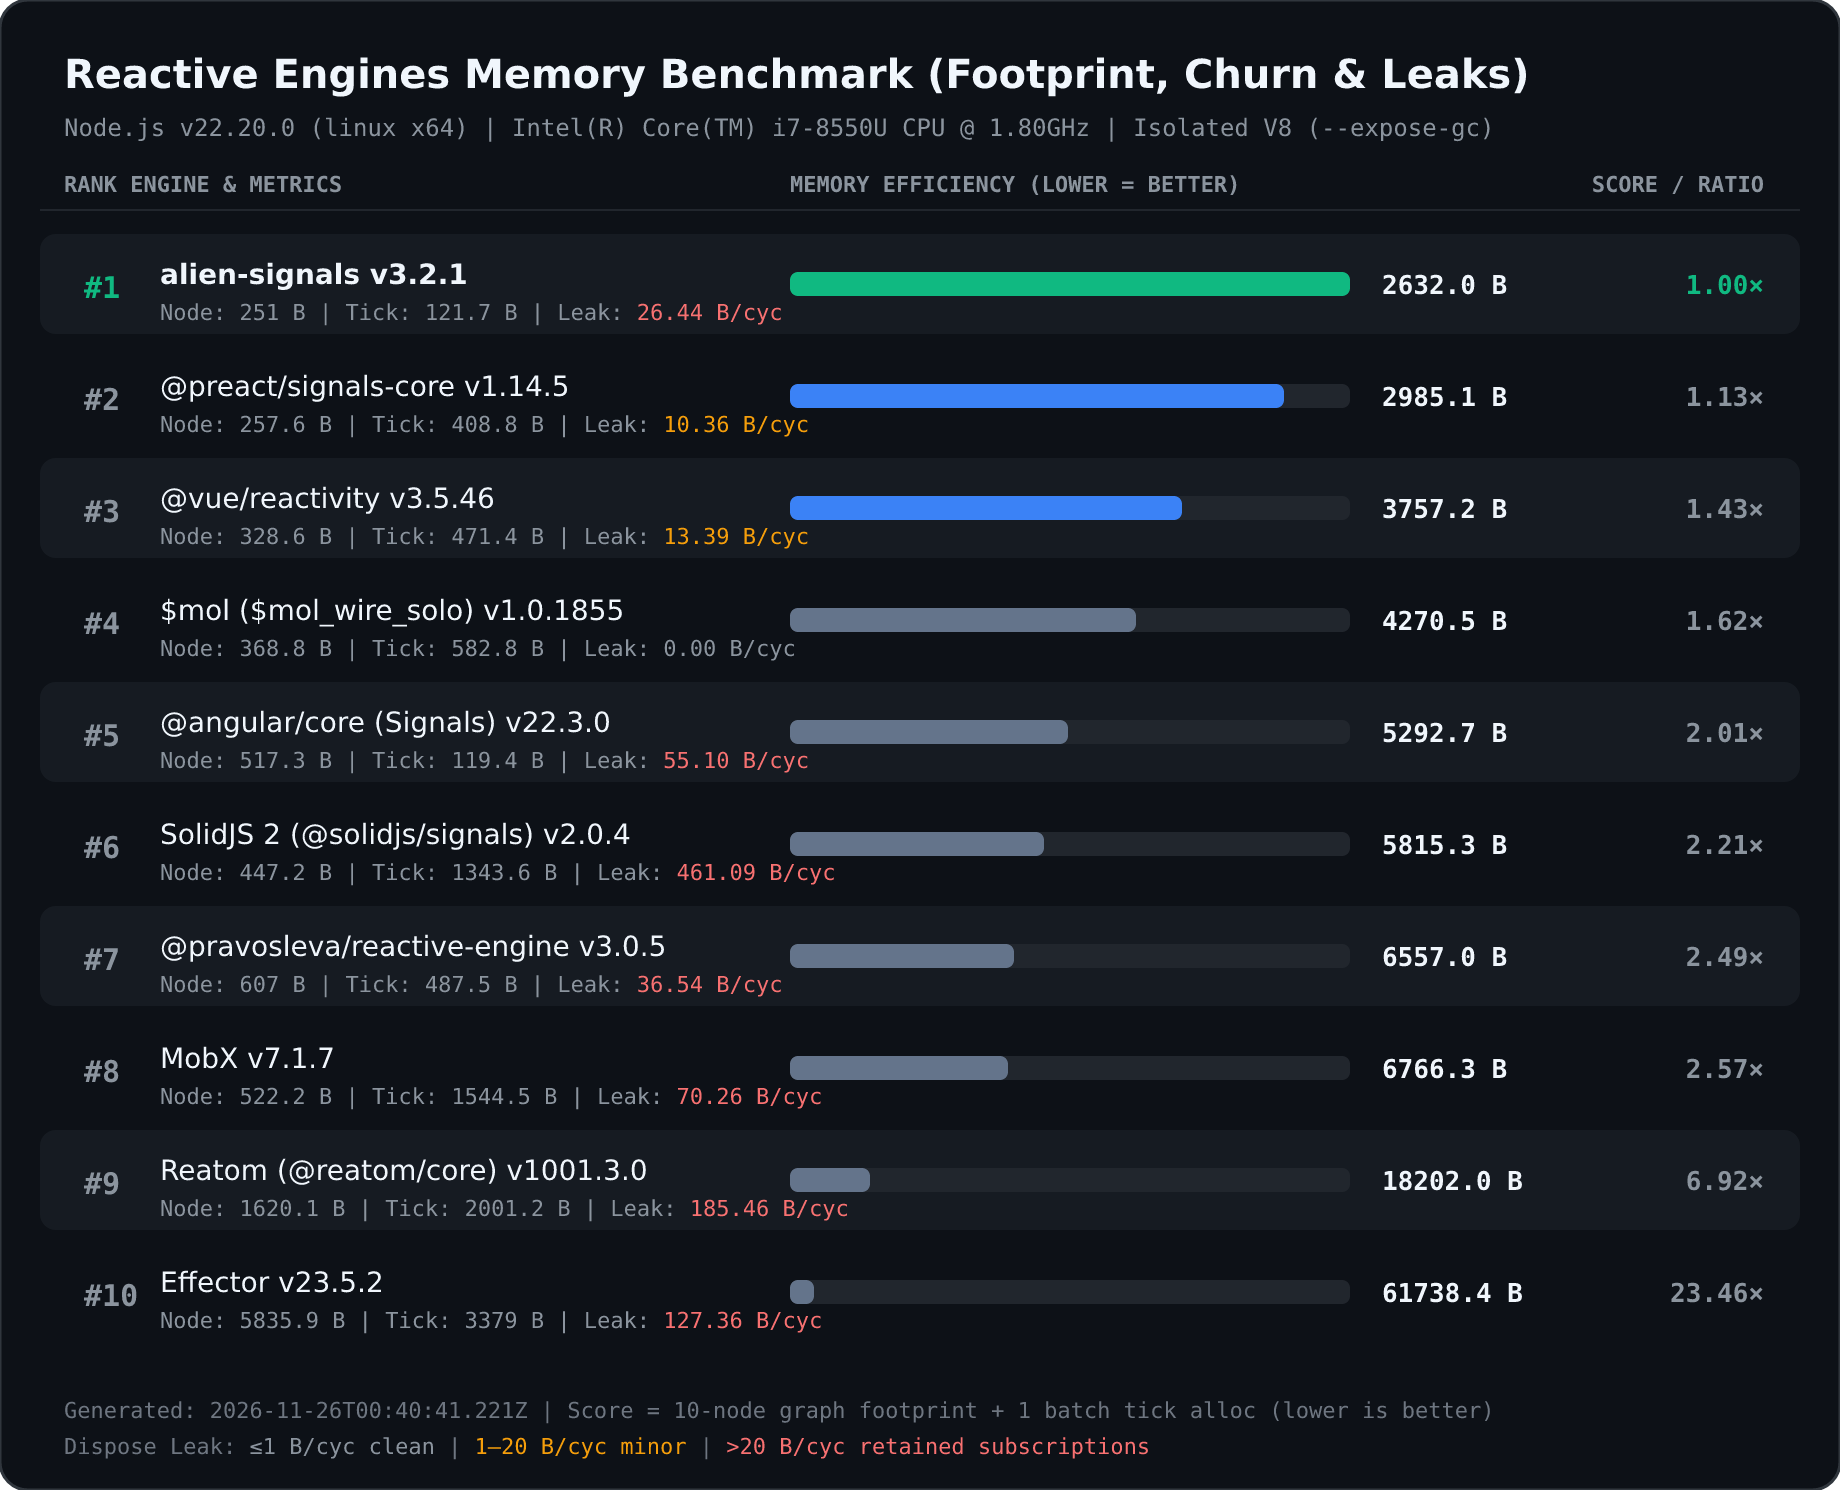
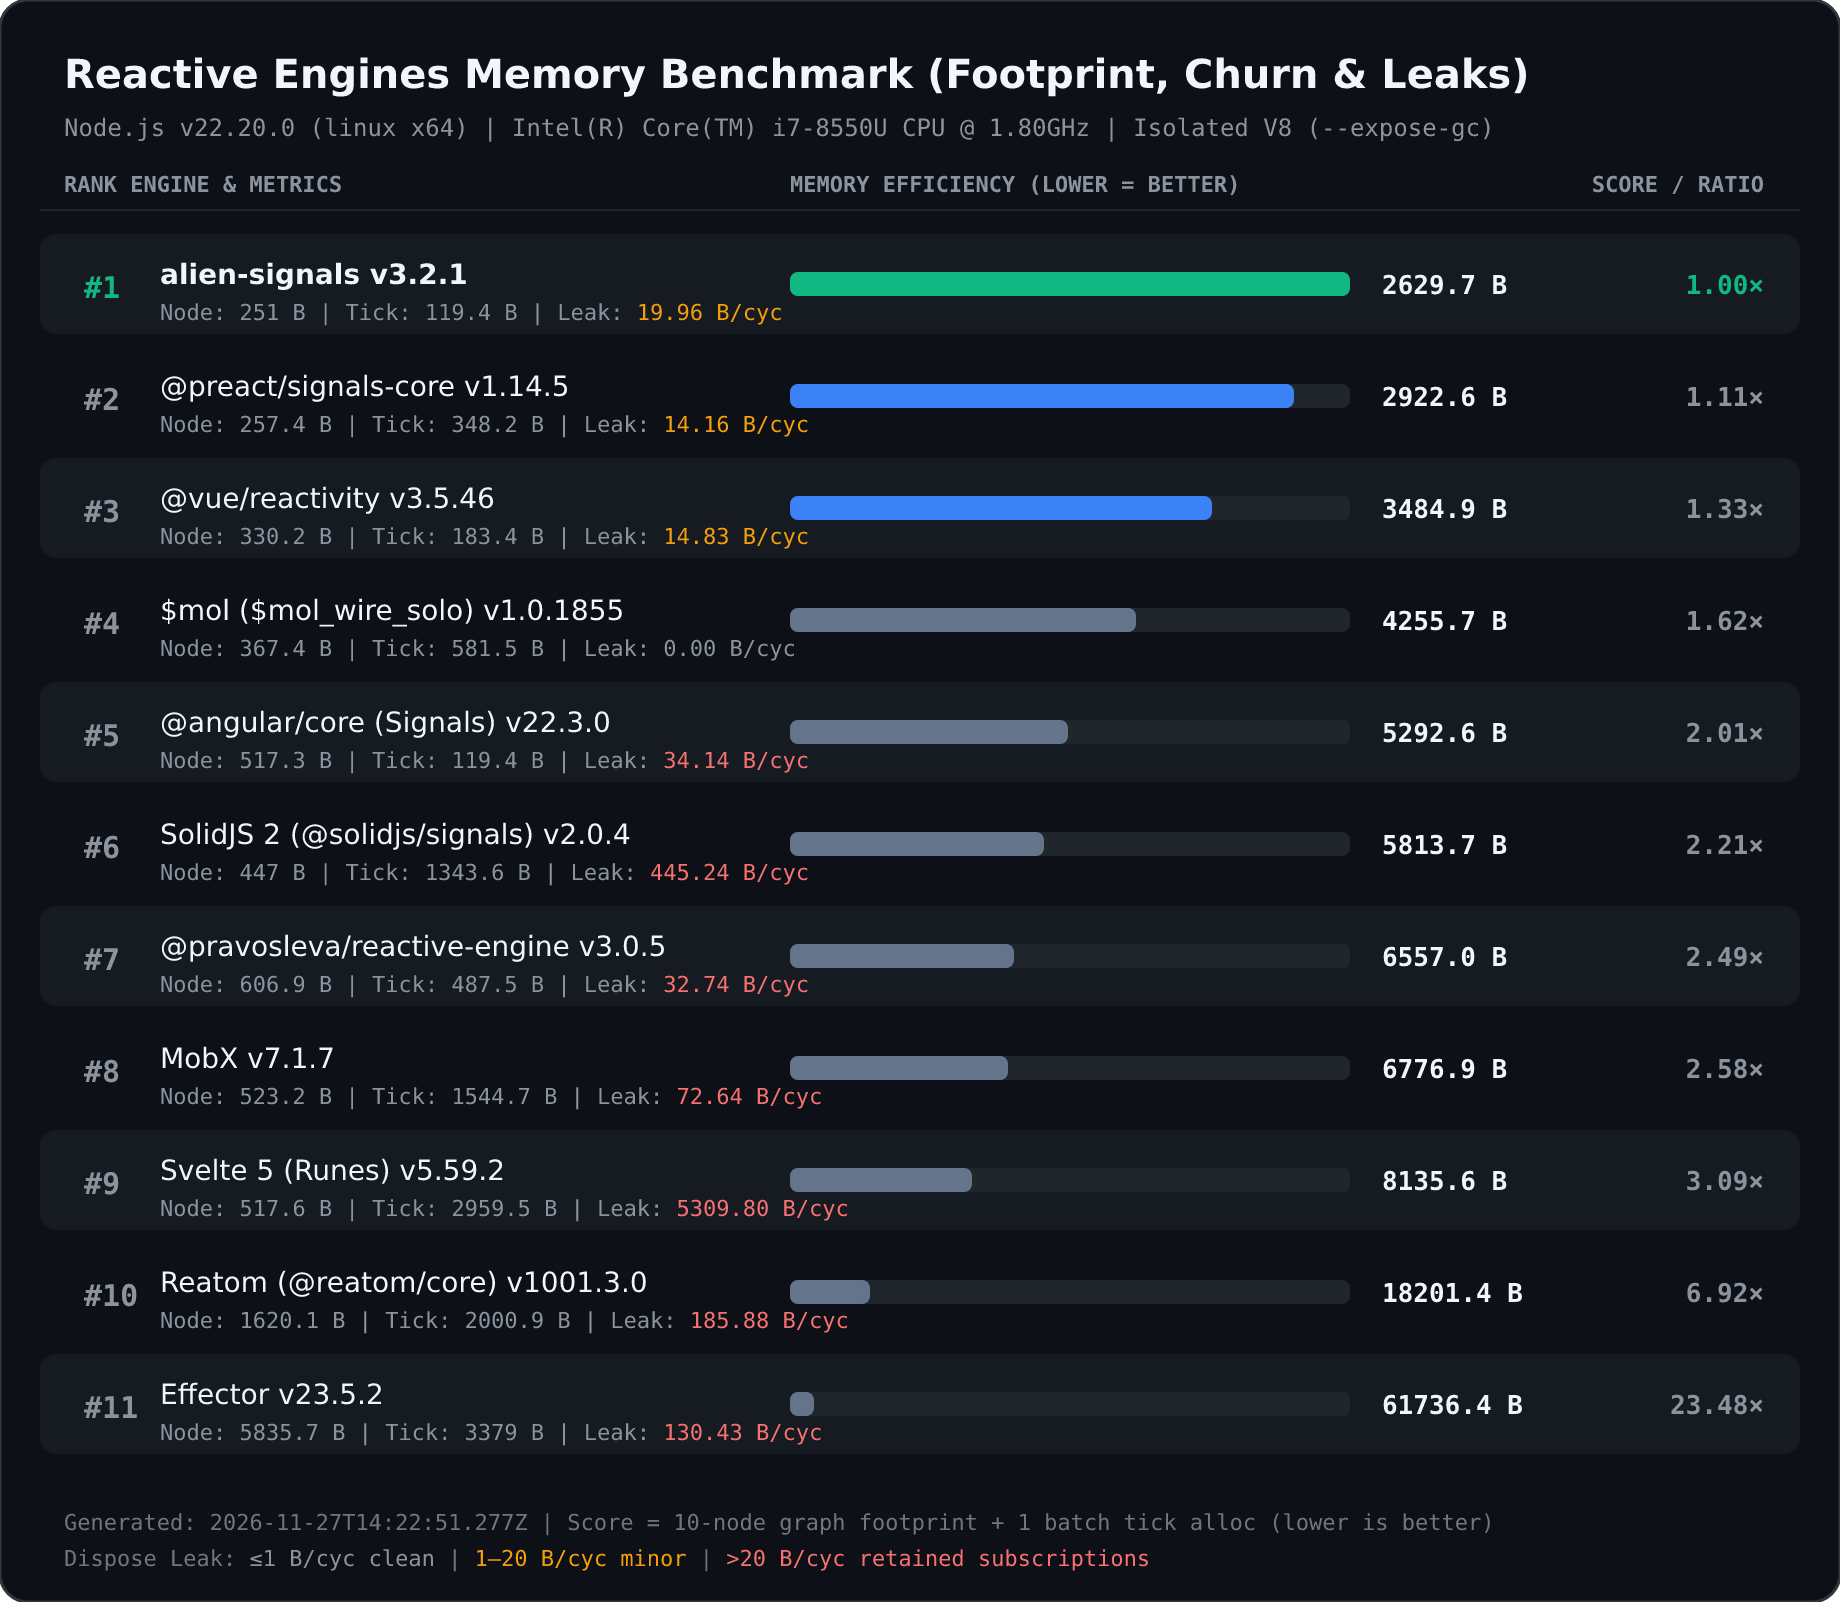
svelte v5 added; results refreshed

diff --git a/README.md b/README.md
@@ -6,22 +6,23 @@
 
 ## 1. Результаты последнего прогона
 
-* **Дата замера:** `2026-11-26T00:40:41.221Z`
+* **Дата замера:** `2026-11-27T14:22:51.277Z`
 * **Среда выполнения:** Node.js `v22.20.0` (`linux x64`), `Intel(R) Core(TM) i7-8550U CPU @ 1.80GHz`
 * **Масштаб тестов:** `10 000` узлов (Footprint) | `5 000` тиков (Churn) | `2 000` циклов mount/dispose (Leaks)
 
 | Rank | Engine | Node (B) | Tick Alloc (B) | Leak (B/cycle) | Memory Score (B) | Ratio |
 | :---: | :--- | :---: | :---: | :---: | :---: | :---: |
-| **1** | **alien-signals `v3.2.1`** | `251` | `121.7` | `26.44` | `2632` | `1.00×` |
-| **2** | @preact/signals-core `v1.14.5` | `257.6` | `408.8` | `10.36` | `2985.1` | `1.13×` |
-| **3** | @vue/reactivity `v3.5.46` | `328.6` | `471.4` | `13.39` | `3757.2` | `1.43×` |
-| **4** | $mol ($mol_wire_solo) `v1.0.1855` | `368.8` | `582.8` | `0.00` | `4270.5` | `1.62×` |
-| **5** | @angular/core (Signals) `v22.3.0` | `517.3` | `119.4` | `55.10` | `5292.7` | `2.01×` |
-| **6** | SolidJS 2 (@solidjs/signals) `v2.0.4` | `447.2` | `1343.6` | `461.09` | `5815.3` | `2.21×` |
-| **7** | @pravosleva/reactive-engine `v3.0.5` | `607` | `487.5` | `36.54` | `6557` | `2.49×` |
-| **8** | MobX `v7.1.7` | `522.2` | `1544.5` | `70.26` | `6766.3` | `2.57×` |
-| **9** | Reatom (@reatom/core) `v1001.3.0` | `1620.1` | `2001.2` | `185.46` | `18202` | `6.92×` |
-| **10** | Effector `v23.5.2` | `5835.9` | `3379` | `127.36` | `61738.4` | `23.46×` |
+| **1** | **alien-signals `v3.2.1`** | `251` | `119.4` | `19.96` | `2629.7` | `1.00×` |
+| **2** | @preact/signals-core `v1.14.5` | `257.4` | `348.2` | `14.16` | `2922.6` | `1.11×` |
+| **3** | @vue/reactivity `v3.5.46` | `330.2` | `183.4` | `14.83` | `3484.9` | `1.33×` |
+| **4** | $mol ($mol_wire_solo) `v1.0.1855` | `367.4` | `581.5` | `0.00` | `4255.7` | `1.62×` |
+| **5** | @angular/core (Signals) `v22.3.0` | `517.3` | `119.4` | `34.14` | `5292.6` | `2.01×` |
+| **6** | SolidJS 2 (@solidjs/signals) `v2.0.4` | `447` | `1343.6` | `445.24` | `5813.7` | `2.21×` |
+| **7** | @pravosleva/reactive-engine `v3.0.5` | `606.9` | `487.5` | `32.74` | `6557` | `2.49×` |
+| **8** | MobX `v7.1.7` | `523.2` | `1544.7` | `72.64` | `6776.9` | `2.58×` |
+| **9** | Svelte 5 (Runes) `v5.59.2` | `517.6` | `2959.5` | `5309.80` | `8135.6` | `3.09×` |
+| **10** | Reatom (@reatom/core) `v1001.3.0` | `1620.1` | `2000.9` | `185.88` | `18201.4` | `6.92×` |
+| **11** | Effector `v23.5.2` | `5835.7` | `3379` | `130.43` | `61736.4` | `23.48×` |
 
 ## 2. Методология и устройство тестов
 
